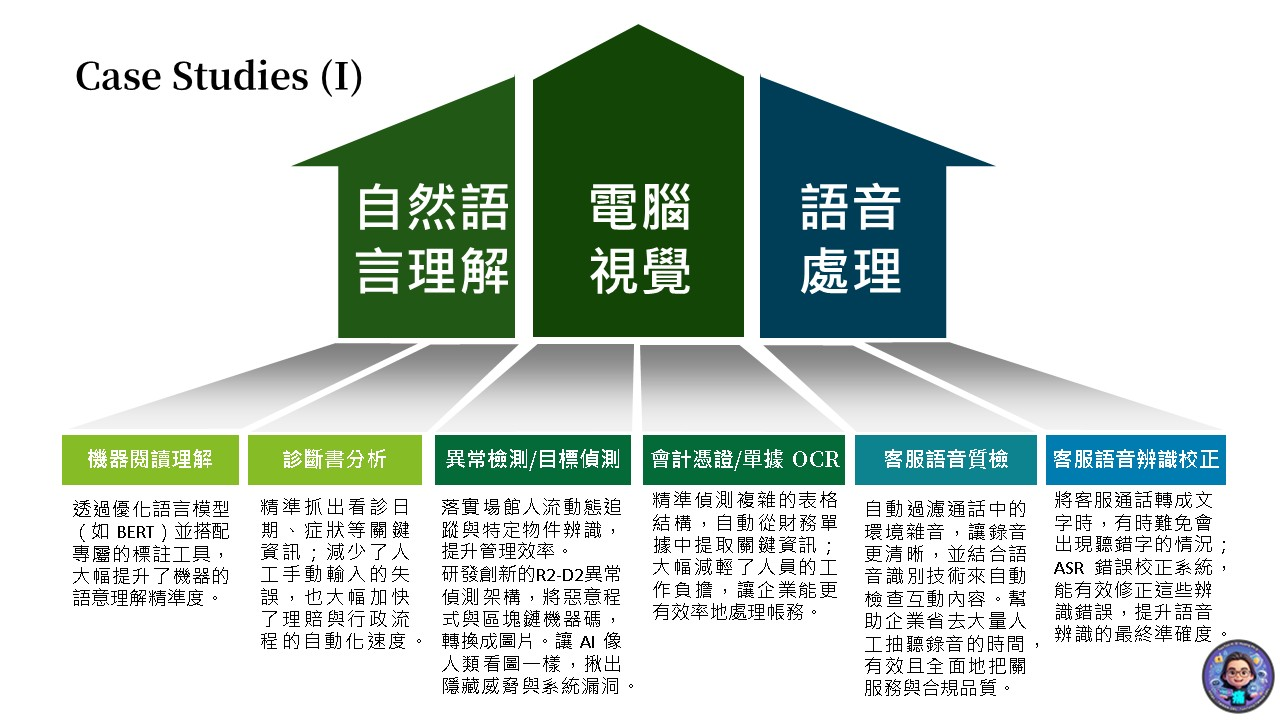
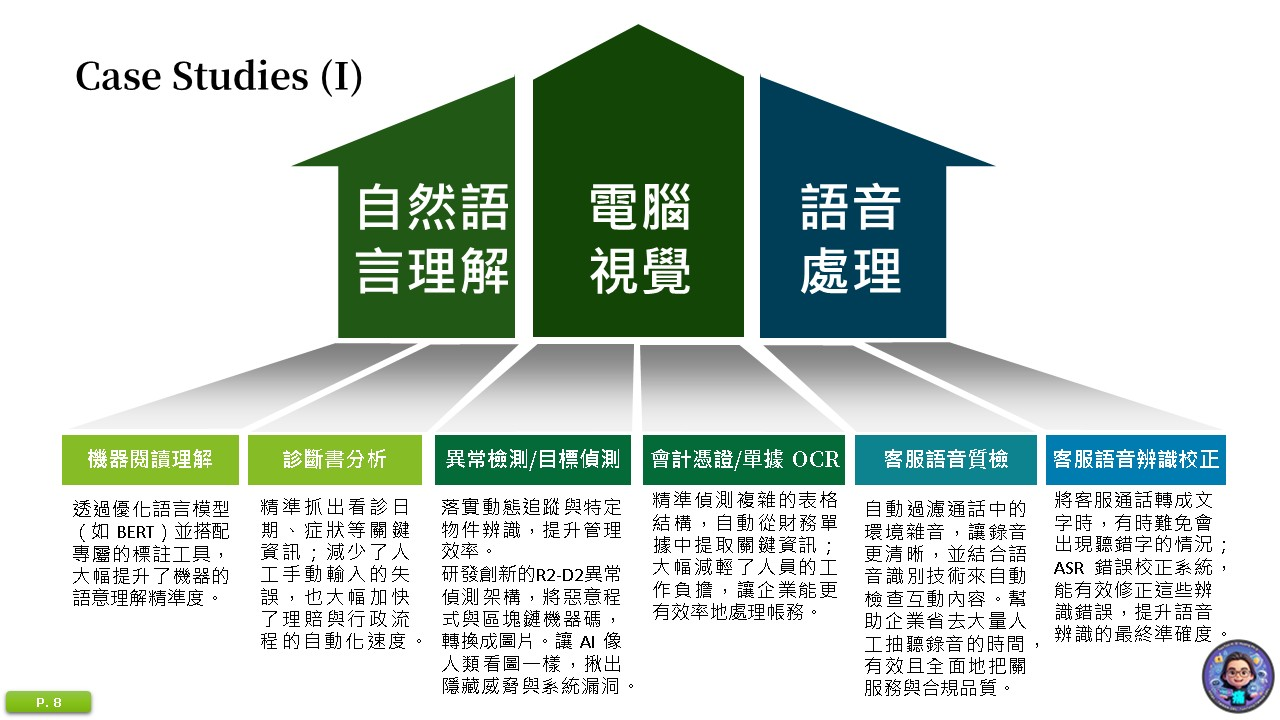
更新圖片以提升視覺效果

Changed region(s): [[0.3438, 0.6722, 0.5, 0.7944], [0.0, 0.9472, 0.0938, 1.0]]

diff --git a/TonTon.html b/TonTon.html
@@ -1000,73 +1000,7 @@
     </div>
   </div>
 
-  <details class="sidebar-section">
-    <summary class="section-summary">
-      <span>🛠 實戰工具 & Agent 框架</span>
-      <span class="arrow">▼</span>
-    </summary>
-    <div class="section-content">
-      <a href="https://deep-learning-101.github.io/Blog/Dify-Coze-n8n-AutoGen-LangChain" class="sidebar-link">Dify, Coze, n8n, AutoGen 熱門框架比較</a>
-      <a href="https://deep-learning-101.github.io/Blog/vLLM-Ollama-SGLang-LLaMAcpp" class="sidebar-link">推論加速：vLLM, Ollama, SGLang</a>
-      <a href="https://deep-learning-101.github.io/gemini-fullstack-langgraph/FinGenAI" class="sidebar-link">Gemini + LangGraph 全端實戰</a>
-      <a href="https://deep-learning-101.github.io/FinRobot/FinRobot-GOOGL" class="sidebar-link">基於 AutoGen 的 FinRobot 體驗</a>
-    </div>
-  </details>
 
-  <details class="sidebar-section">
-    <summary class="section-summary">
-      <span>🛡 AI 資安與 AIxCC 競賽</span>
-      <span class="arrow">▼</span>
-    </summary>
-    <div class="section-content">
-      <a href="https://deep-learning-101.github.io/cyber/AIxCC-Atlanta" class="sidebar-link">🏆 冠軍團隊：亞特蘭大 (Team-Atlanta) 解析</a>
-      <a href="https://deep-learning-101.github.io/cyber/AIxCC-Buttercup" class="sidebar-link">🥈 亞軍團隊：Trail of Bits 解析</a>
-      <a href="https://deep-learning-101.github.io/cyber/AIxCC-shellphish" class="sidebar-link">🐚 Shellphish：用 LLMs 解決 CTF 挑戰</a>
-      <a href="https://deep-learning-101.github.io/cyber/LLM-Guard" class="sidebar-link">🛡 AI 大模型安全護欄綜合報告</a>
-      <a href="https://deep-learning-101.github.io/cyber/LLM-Offense" class="sidebar-link">⚔ LLM 安全攻防策略深度解析</a>
-    </div>
-  </details>
-
-  <details class="sidebar-section">
-    <summary class="section-summary">
-      <span>📝 論文快遞</span>
-      <span class="arrow">▼</span>
-    </summary>
-    <div class="section-content">
-      <a href="https://deep-learning-101.github.io/LLM/PersonaPlex" class="sidebar-link">NVIDIA PersonaPlex 全雙工語音 AI 深度技術分析</a>
-      <a href="https://deep-learning-101.github.io/Paper/Chain-of-Thought" class="sidebar-link">CoT (思维鏈) is not explainability</a>
-      <a href="https://deep-learning-101.github.io/Paper/2506.21521_Potemkin-Understanding" class="sidebar-link">arXiv: Potemkin Understanding in LLMs</a>
-      <a href="https://deep-learning-101.github.io/Paper/2502.04644_Oxford_Agentic-Reasoning.html" class="sidebar-link">arXiv: Agentic Reasoning</a>
-    </div>
-  </details>
-
-    <details class="sidebar-section">
-    <summary class="section-summary">
-      <span>📝 產業趨勢</span>
-      <span class="arrow">▼</span>
-    </summary>
-    <div class="section-content">
-      <a href="https://deep-learning-101.github.io/Blog/AIFinTech" class="sidebar-link">💰 GenAI 在金融產業的應用分析</a>
-      <a href="https://deep-learning-101.github.io/Blog/robot" class="sidebar-link">🤖 2025 趨勢：AI Robot 陪伴型機器人</a>
-    </div>
-  </details>
-
-  <details class="sidebar-section">
-    <summary class="section-summary">
-      <span>🚧 踩坑指南 & 科普入門</span>
-      <span class="arrow">▼</span>
-    </summary>
-    <div class="section-content">
-      <a href="https://deep-learning-101.github.io/GenAI" class="sidebar-link">🎓 白話文科普 GenAI (硬體/數據)</a>
-      <a href="https://deep-learning-101.github.io/1010LLM" class="sidebar-link">🛑 LLM 打完收工？硬體升級重要性</a>
-      <a href="https://deep-learning-101.github.io/0204LLM" class="sidebar-link">📘 LLM 入門完整指南：原理與應用</a>
-      <a href="https://deep-learning-101.github.io/diffusion" class="sidebar-link">🎨 Diffusion Model 圖像生成解析</a>
-      <a href="https://deep-learning-101.github.io/GPU" class="sidebar-link">💻 訓練微調 VRAM 估算指南</a>
-      <a href="https://deep-learning-101.github.io/asr-tts" class="sidebar-link">🎙 ASR/TTS 語音開發避坑</a>
-      <a href="https://deep-learning-101.github.io/nlp" class="sidebar-link">📝 NLP 自然語言開發避坑</a>
-      <a href="https://deep-learning-101.github.io/101" class="sidebar-link">🐧 Ubuntu 深度學習環境安裝教學</a>
-    </div>
-  </details>
 
 </div>
 
